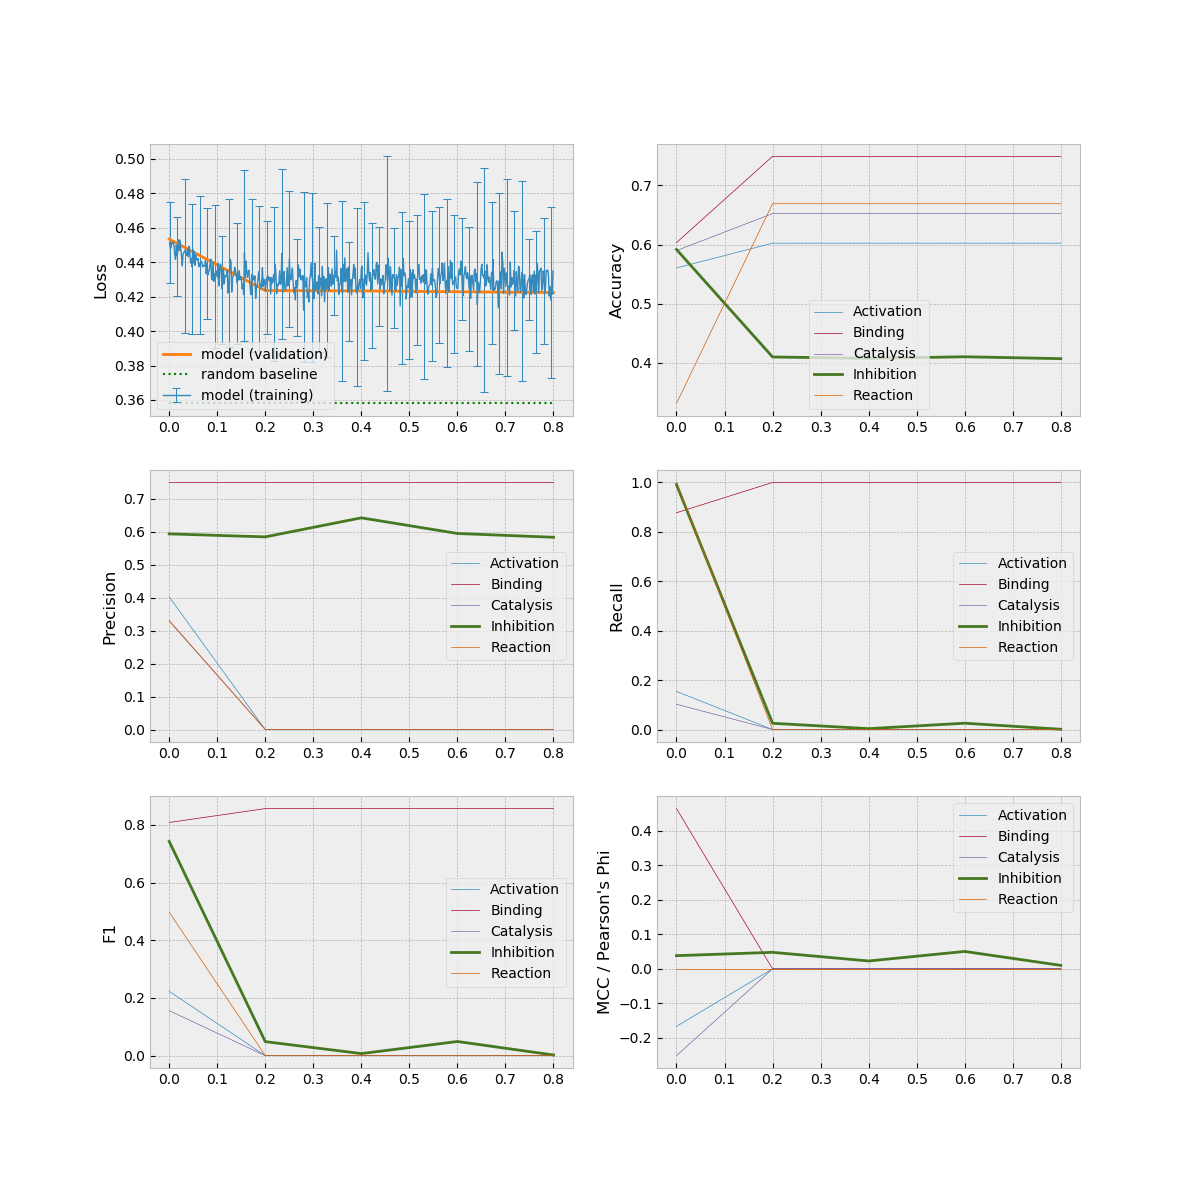
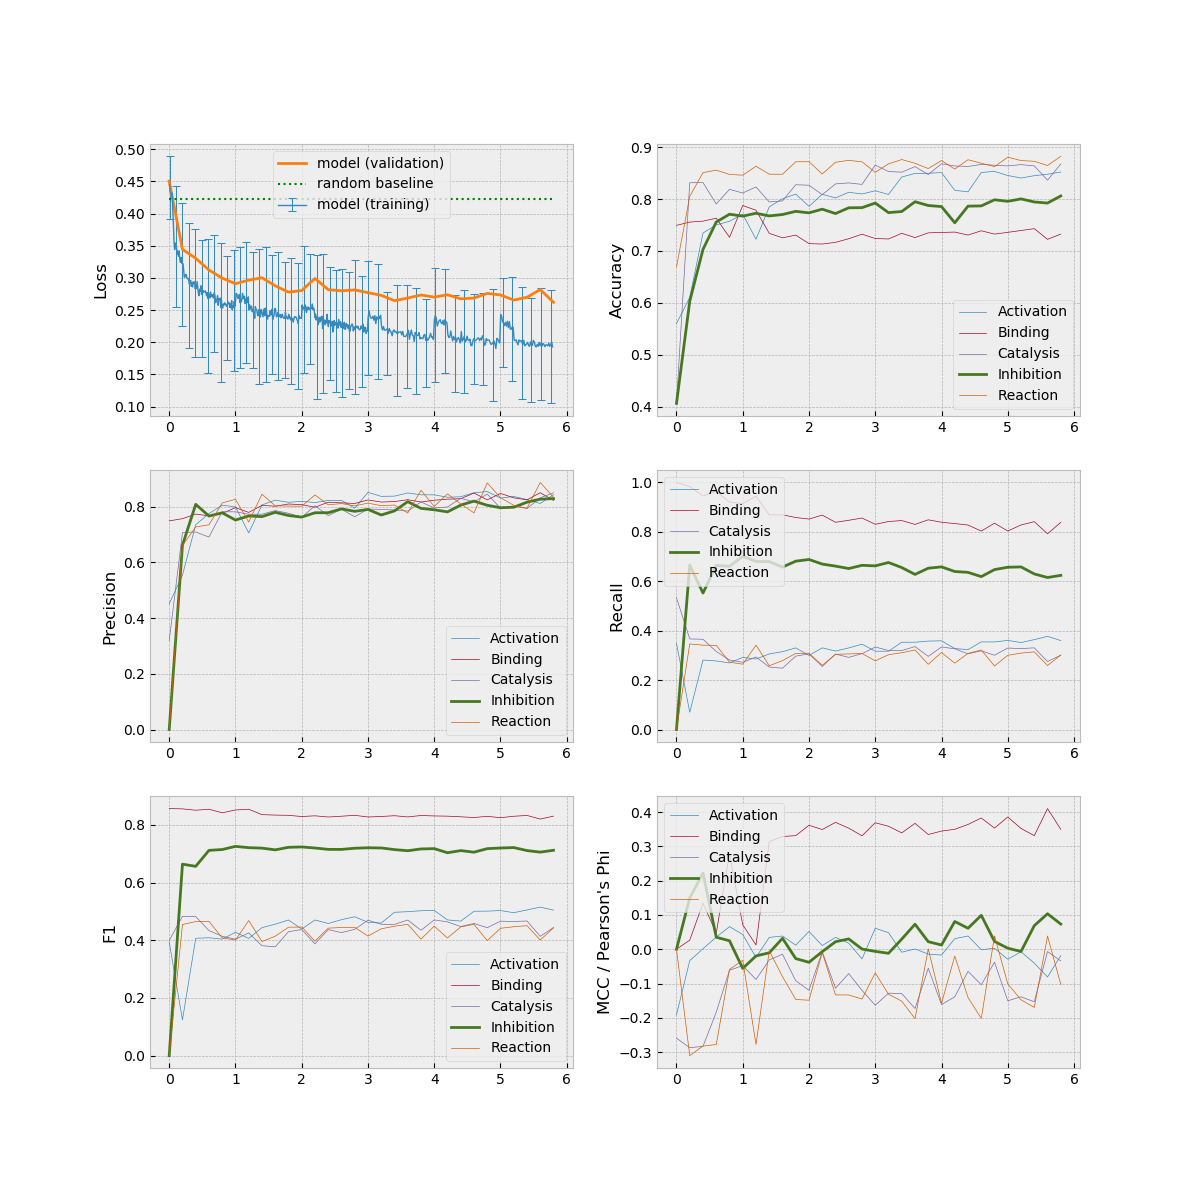
Added learning rate scheduler

diff --git a/train_model.py b/train_model.py
@@ -22,13 +22,13 @@ from covid.utils import getch
 import logging
 
 DROPOUT_RATE = 0.4
-BATCH_SIZE = 16
+BATCH_SIZE = 24
 VALIDATION_FREQUENCY = 0.2
 SYNTHETIC_NEGATIVE_RATE = 0.2
 
 DEVICE = 'cuda'
 
-TRAINING_FOLD = 1
+TRAINING_FOLD = 3
 
 
 # set random seeds
@@ -47,14 +47,14 @@ def initialize_logger(output_dir='./logs'):
     # create console handler and set level to info
     handler = logging.StreamHandler()
     handler.setLevel(logging.INFO)
-    formatter = logging.Formatter("%(levelname)s - %(message)s")
+    formatter = logging.Formatter("%(asctime)s | [%(levelname)s] %(message)s")
     handler.setFormatter(formatter)
     logger.addHandler(handler)
 
     # create debug file handler and set level to debug
     handler = logging.FileHandler(os.path.join(output_dir, f"debug_{TRAINING_FOLD:02}.log"), "w")
     handler.setLevel(logging.DEBUG)
-    formatter = logging.Formatter("%(levelname)s - %(message)s")
+    formatter = logging.Formatter("[%(levelname)s] %(message)s")
     handler.setFormatter(formatter)
     logger.addHandler(handler)
 
@@ -100,6 +100,12 @@ if __name__ == '__main__':
     logging.info("Initializing optimizers/schedulers")
     optim = T.optim.Adam(model.parameters(), lr=1e-4, betas=(0.95, 0.99))
     warmup = LinearWarmupScheduler(optim, 2000)
+    scheduler = T.optim.lr_scheduler.ReduceLROnPlateau(
+        optim, 
+        factor=0.1**0.125, 
+        patience=1,
+        min_lr=1e-7
+    )
 
     losses = []
     validation_stats = []
@@ -125,6 +131,8 @@ if __name__ == '__main__':
         model.load_state_dict(state['model'])
         optim.load_state_dict(state['optim'])
         warmup.load_state_dict(state['warmup'])
+        if 'scheduler' in state:
+            scheduler.load_state_dict(state['scheduler'])
     else:
         logging.info("No previous training state to load")
         
@@ -167,7 +175,7 @@ if __name__ == '__main__':
             optim.step()
             warmup.step()
                 
-            pct_epoch = min(1.0, idx/epoch_length)
+            pct_epoch = min(1.0, (idx+1)/epoch_length)
             
             losses.append((epoch + pct_epoch, loss.item()))
         
@@ -177,6 +185,8 @@ if __name__ == '__main__':
                 vloss, vacc, v_conf = get_validation_loss()
                 validation_stats.append([epoch+pct_epoch, vloss, vacc, v_conf])
                 
+                scheduler.step(vloss)
+
                 get_performance_plots(losses, validation_stats).savefig(f'./performance_{TRAINING_FOLD:02}.png')
                 logging.info(f'Generated validation stats -- plot saved to "./performance_{TRAINING_FOLD:02}.png"')
                 last_validation = epoch + pct_epoch
@@ -197,6 +207,7 @@ if __name__ == '__main__':
             'model': model.state_dict(),
             'optim': optim.state_dict(),
             'warmup': warmup.state_dict(),
+            'scheduler': scheduler.state_dict()
         }
         with gzip.open(f'./checkpoints/model_{TRAINING_FOLD:02}_{epoch:03}.pkl.gz', 'wb') as f:
             T.save(state, f)

diff --git a/covid/reporting.py b/covid/reporting.py
@@ -34,7 +34,7 @@ def plot_loss(ax, loss_x, loss_y, valid_x, valid_y, period=None):
 
     ax.plot(x, y, label='model (validation)', c='C1')
 
-    ax.plot((x[0], x[-1]), (0.358, 0.358), c='g', ls=':', lw=1.5, label='random baseline')
+    ax.plot((x[0], x[-1]), (0.422, 0.422), c='g', ls=':', lw=1.5, label='random baseline')
     ax.legend()
 
 def plot_stat(ax, x, stat, title):

diff --git a/covid/model.py b/covid/model.py
@@ -148,6 +148,7 @@ def calculate_average_loss_and_accuracy(model, dl, device):
     
     for batch in tqdm(dl):
         chem_graphs, chem_features, proteins, target = batch
+        model.zero_grad()
         result, target, loss, weight = run_model(model, batch, device)
         
         total_loss += loss.item() * result.shape[0]
